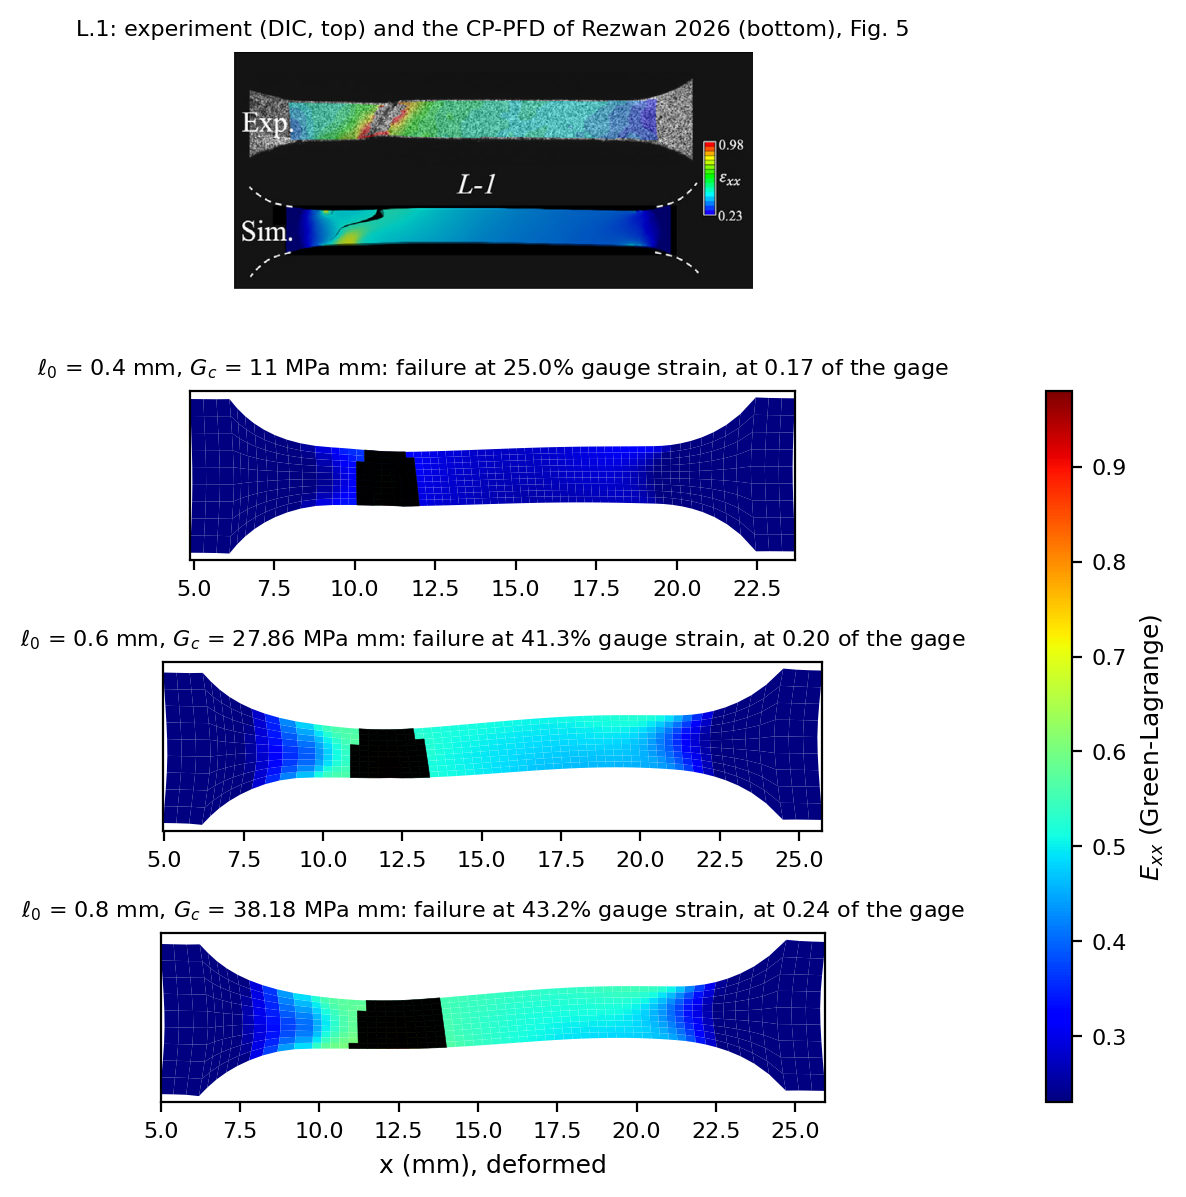
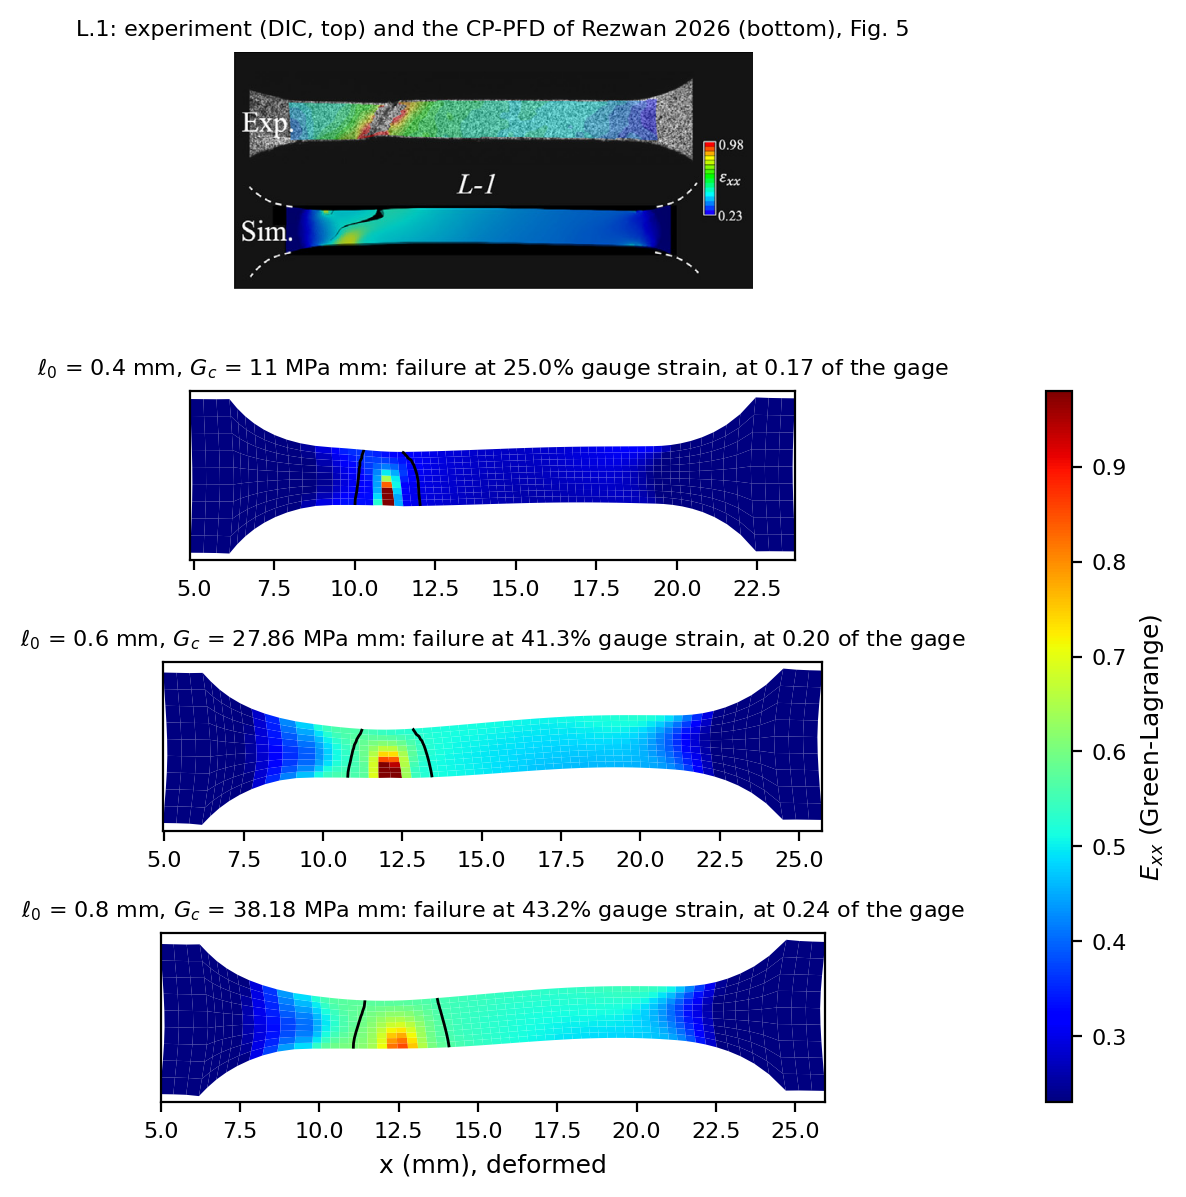
Ni CP+PFD shape figure: fracture zone outlined at d = 0.85 on E_xx (author's presentation style); FINDINGS: l0 rule and the W_c stage

Changed region(s): [[0.2808, 0.8346, 0.3744, 0.8964], [0.2808, 0.3709, 0.3744, 0.4327], [0.2808, 0.5873, 0.3744, 0.6491]]

diff --git a/scripts/ni_pfd_shape_figures.py b/scripts/ni_pfd_shape_figures.py
@@ -9,7 +9,7 @@ Deck-driven (PINNACLE .i syntax):
     panel_label = 'L.1, experiment (DIC) and the paper's CP-PFD (Rezwan 2026, Fig. 5)'
     exx_range   = '0.23 0.98'          # color limits of E_xx, the experiment panel's scale
     x_range     = '5.0 20.4'           # mm, the gage, fillets and grip ends (undeformed x of the cells)
-    crack       = 0.85                 # cells with mean nodal damage above this are drawn black
+    crack       = 0.85                 # the d = crack outline (black on E_xx, cyan on d): the fracture zone
     color       = exx                  # exx | damage (the phase field d, 0..1, with the d = crack contour)
     dpi         = 200
   []
@@ -24,7 +24,8 @@ Each run is drawn at its failure step (the snapshot that `ni_specimen.py fractur
 found separated; fracture.json): plan view of the deformed top face, cells colored
 by the Green-Lagrange axial strain E_xx = H_xx + (H_xx^2 + H_yx^2 + H_zx^2) / 2 from
 the displacement gradient H the run records (the measure a DIC code such as Vic-2D
-reports as e_xx), the cracked cells black (the paper draws them as voids).
+reports as e_xx), with the fracture zone outlined in black at d = crack (or, with
+color = damage, the phase field d itself with the outline in cyan).
 """
 from __future__ import annotations
 
@@ -122,14 +123,22 @@ def draw_run(ax, v: dict, f: dict, lo: float, hi: float):
     x0, x1 = _pair(f["x_range"])
     xc = X0[cells, 0].mean(axis=1)
     keep = (xc >= x0) & (xc <= x1)
-    cracked = d[cells].mean(axis=1) > float(f.get("crack", 0.85))
     polys = [x[top[k]][:, :2] for k in np.where(keep)[0]]
     vals = Exx[keep]
     pc = PolyCollection(polys, array=vals, cmap="jet", edgecolors="none")
     pc.set_clim(lo, hi)
     ax.add_collection(pc)
-    black = [x[top[k]][:, :2] for k in np.where(keep & cracked)[0]]
-    ax.add_collection(PolyCollection(black, facecolors="black", edgecolors="black", linewidths=0.2))
+    # the fracture zone as the outline of d = crack (author 2026-10-20: a phase field is
+    # diffuse, so the damaged area's outline is shown rather than a single crack path)
+    import matplotlib.tri as mtri
+
+    kk = np.where(keep)[0]
+    tris = np.concatenate([top[kk][:, [0, 1, 2]], top[kk][:, [0, 2, 3]]])
+    used = np.unique(tris)
+    remap = -np.ones(len(x), dtype=int)
+    remap[used] = np.arange(len(used))
+    tri = mtri.Triangulation(x[used, 0], x[used, 1], remap[tris])
+    ax.tricontour(tri, d[used], levels=[float(f.get("crack", 0.85))], colors="black", linewidths=1.0)
     ax.set_xlim(min(p[:, 0].min() for p in polys), max(p[:, 0].max() for p in polys))
     ax.set_ylim(min(p[:, 1].min() for p in polys) - 0.2, max(p[:, 1].max() for p in polys) + 0.2)
     ax.set_aspect("equal")

diff --git a/.claude/FINDINGS.md b/.claude/FINDINGS.md
@@ -390,3 +390,13 @@ NOT derivable from the code: measured facts, decisions, and traps.
   ~0.20 of the gage near its thinnest station). The other 14 specimens stay independent.
 - Failure = the paper's criterion as implemented in `ni_specimen.py fracture` (d > 0.85 nodes
   cut the specimen in two); the d >= 0.8 node step is the secondary (initiation) measure.
+
+## 2026-10-20: Ni CP+PFD fracture presentation, l0 rule, W_c stage (author)
+- Fracture shape is presented as the OUTLINE of the d = 0.85 zone (black on the E_xx field; cyan
+  on d), not a single crack path: the phase field is diffuse. The outline already shows the
+  ~50 deg inclined flanks. `ni_pfd_shape_figures.py` draws it (color = exx | damage).
+- The W_c = 0 G_c(l0) calibration continues and is reported as the W_c = 0 condition.
+- l0 is chosen from an l0/h sweep at fixed G_c: the first two consecutive l0/h that barely change
+  the result; take the larger of the two.
+- Then a second calibration at that l0 with the plastic-work threshold W_c (and G_c again): a
+  single crystal has no built-in dissipation of plastic work before damage; report both.
